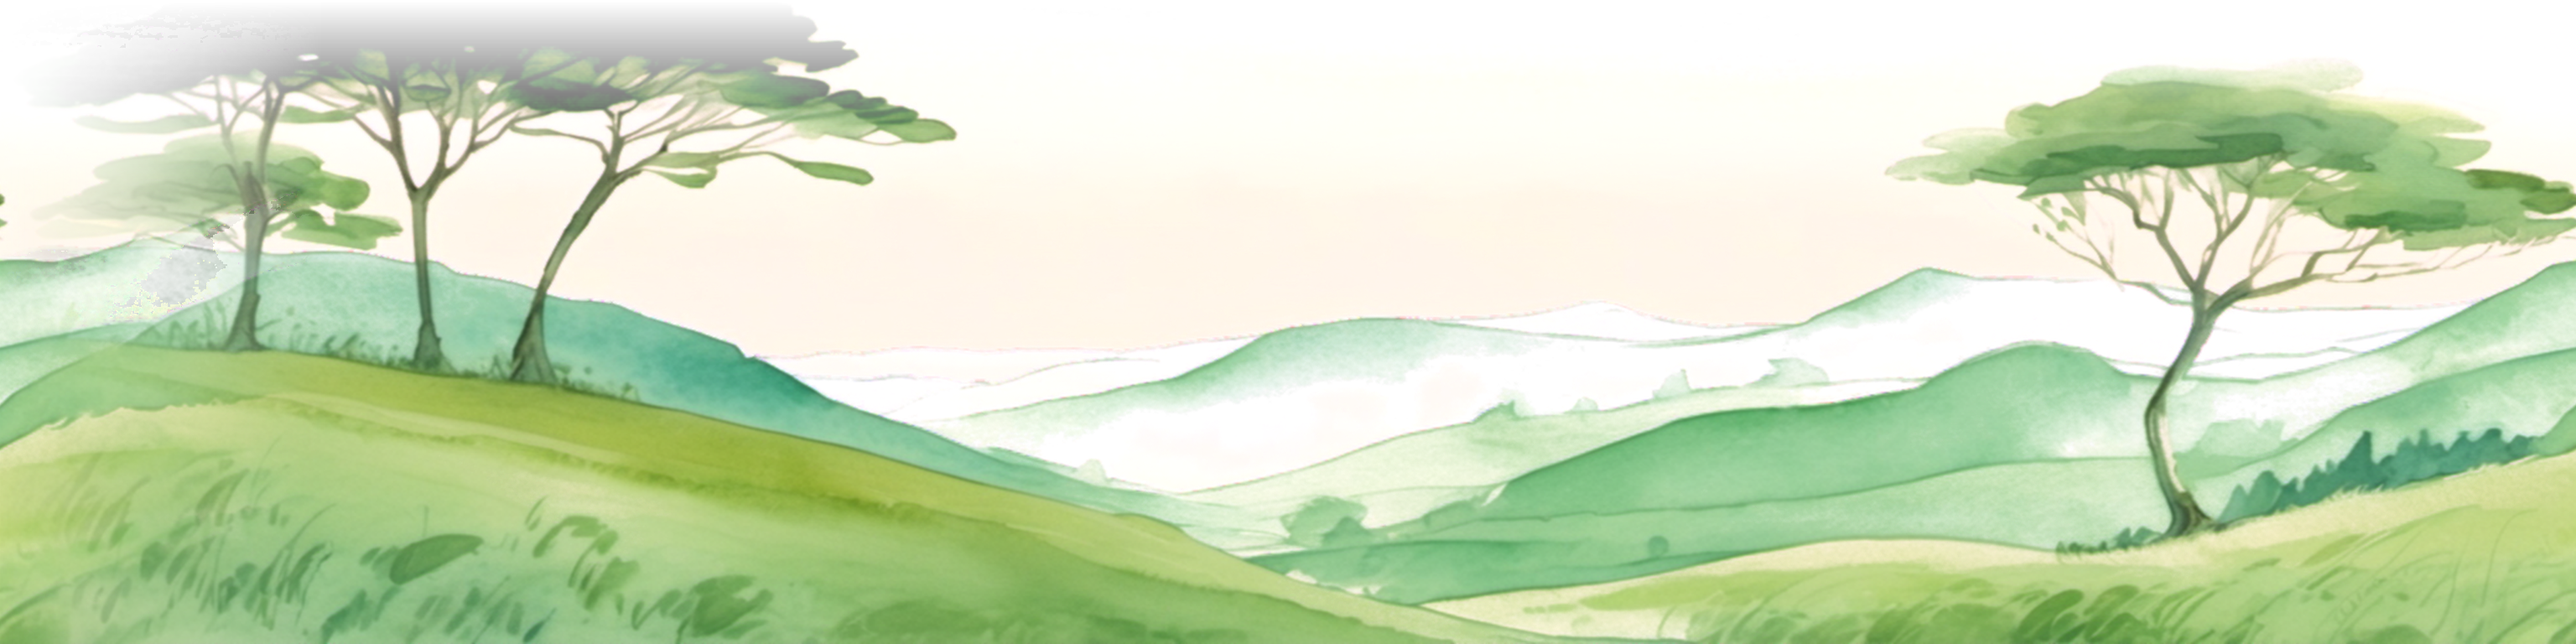
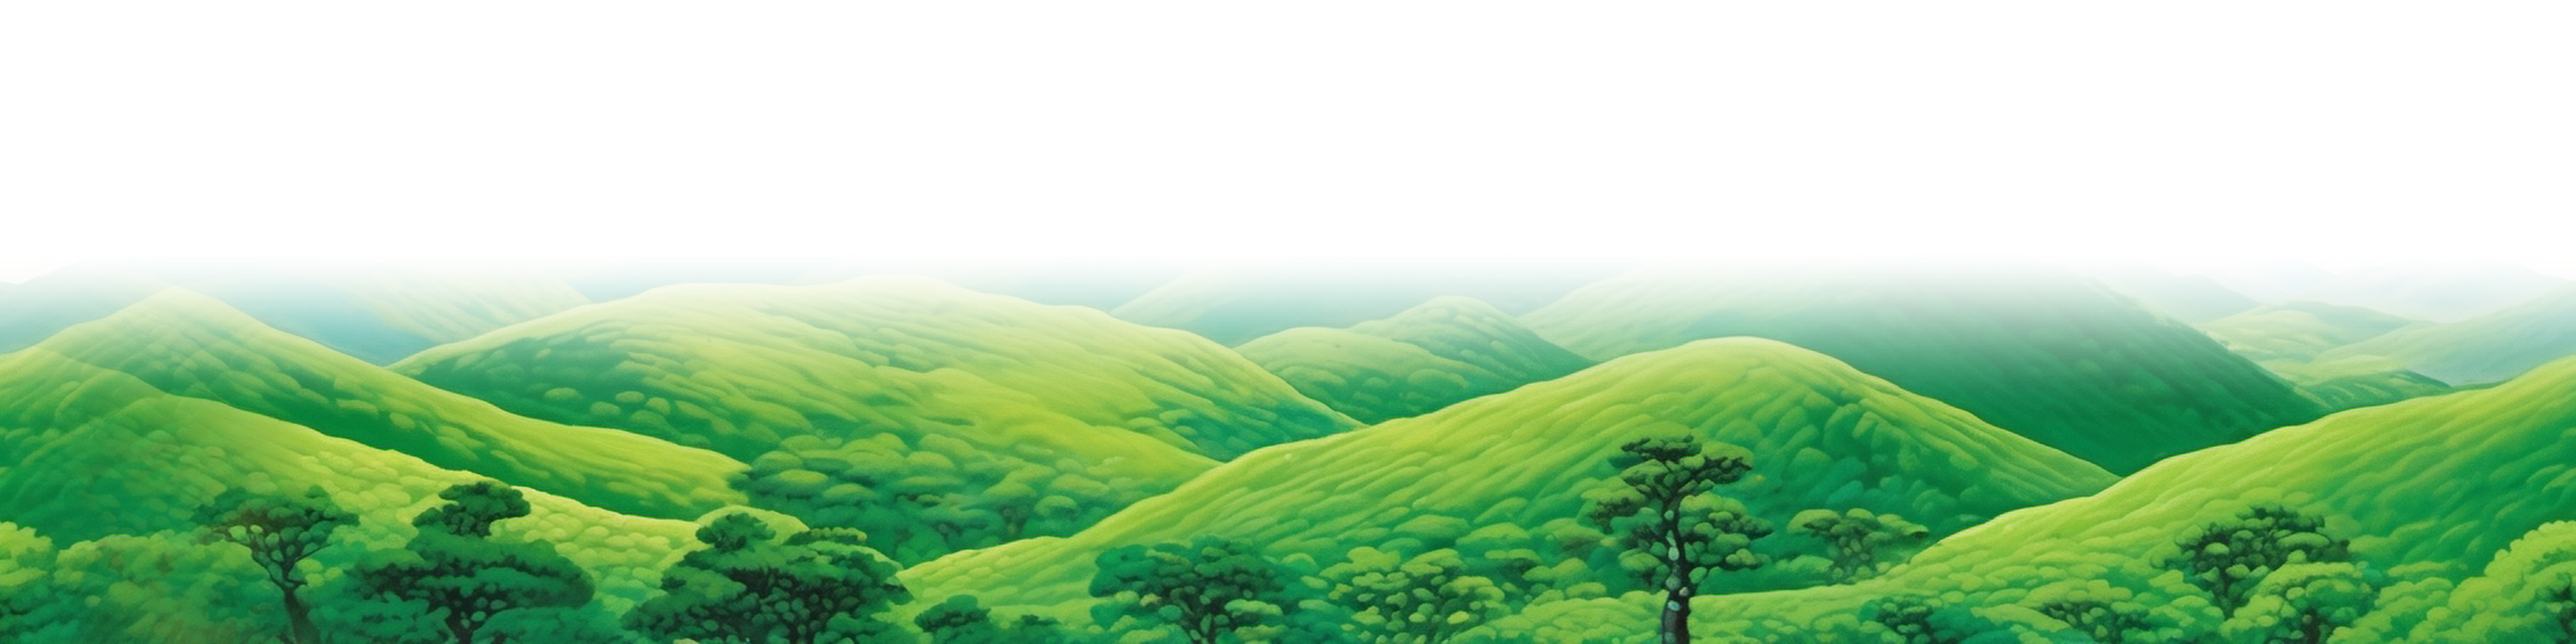
Sky Isles background repainted in the classic hand-painted animated-film style (deep blue sky, bright cumulus, lush greens); strips fade into the sky; layers more opaque

diff --git a/public/config.js b/public/config.js
@@ -1177,7 +1177,7 @@ export const config = {
     // The strip is drawn this much taller than the screen so it can shift up and down a little with the camera.
     OVERSCAN: 1.1,
     // Each strip sits along the bottom of the screen: its height (share of the screen) and how opaque it is.
-    LAYERS: { far: { HEIGHT: 0.6, ALPHA: 0.7 }, mid: { HEIGHT: 0.45, ALPHA: 0.85 }, near: { HEIGHT: 0.28, ALPHA: 0.9 } },
+    LAYERS: { far: { HEIGHT: 0.6, ALPHA: 0.9 }, mid: { HEIGHT: 0.42, ALPHA: 1 }, near: { HEIGHT: 0.28, ALPHA: 1 } },
     // Cave texture: world units tall (the picture is scaled to this), how fast it follows the camera, and a dark wash over it (0-1).
     CAVE: { HEIGHT: 900, PARALLAX: 0.5, DIM: 0.25 },
   },
